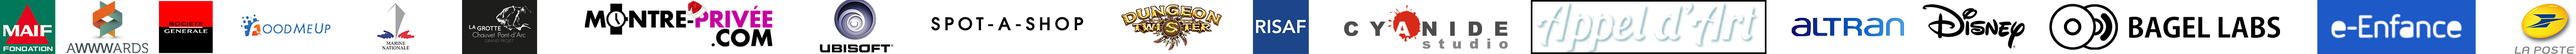
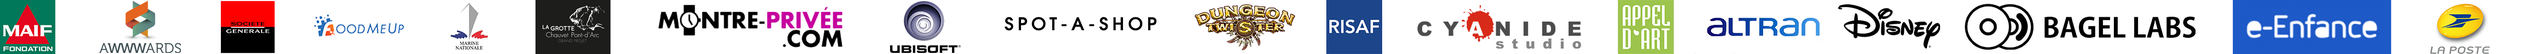
Changement et modifications de l'image du slider

diff --git a/style.css b/style.css
@@ -391,7 +391,7 @@ h3{
 }
 
 .tech-slideshow {
-  height: 104px;
+  height: 100px;
   margin-bottom: 50px; 
   position: relative;
   overflow: hidden;
@@ -400,8 +400,8 @@ h3{
 
 .tech-slideshow > div {
   height: 200px;
-  width: 3000px;
-  background: url("img/Diapo.png");
+  width: 9218px;
+  background: url("img/slidemove.png");
   position: absolute;
   top: 0;
   left: 0;
@@ -409,7 +409,7 @@ h3{
   transform: translate3d(0, 0, 0);
 }
 .tech-slideshow .mover-1 {
-  animation: moveSlideshow 60s linear infinite;
+  animation: moveSlideshow 90s linear infinite;
 }
 
 @keyframes moveSlideshow {
